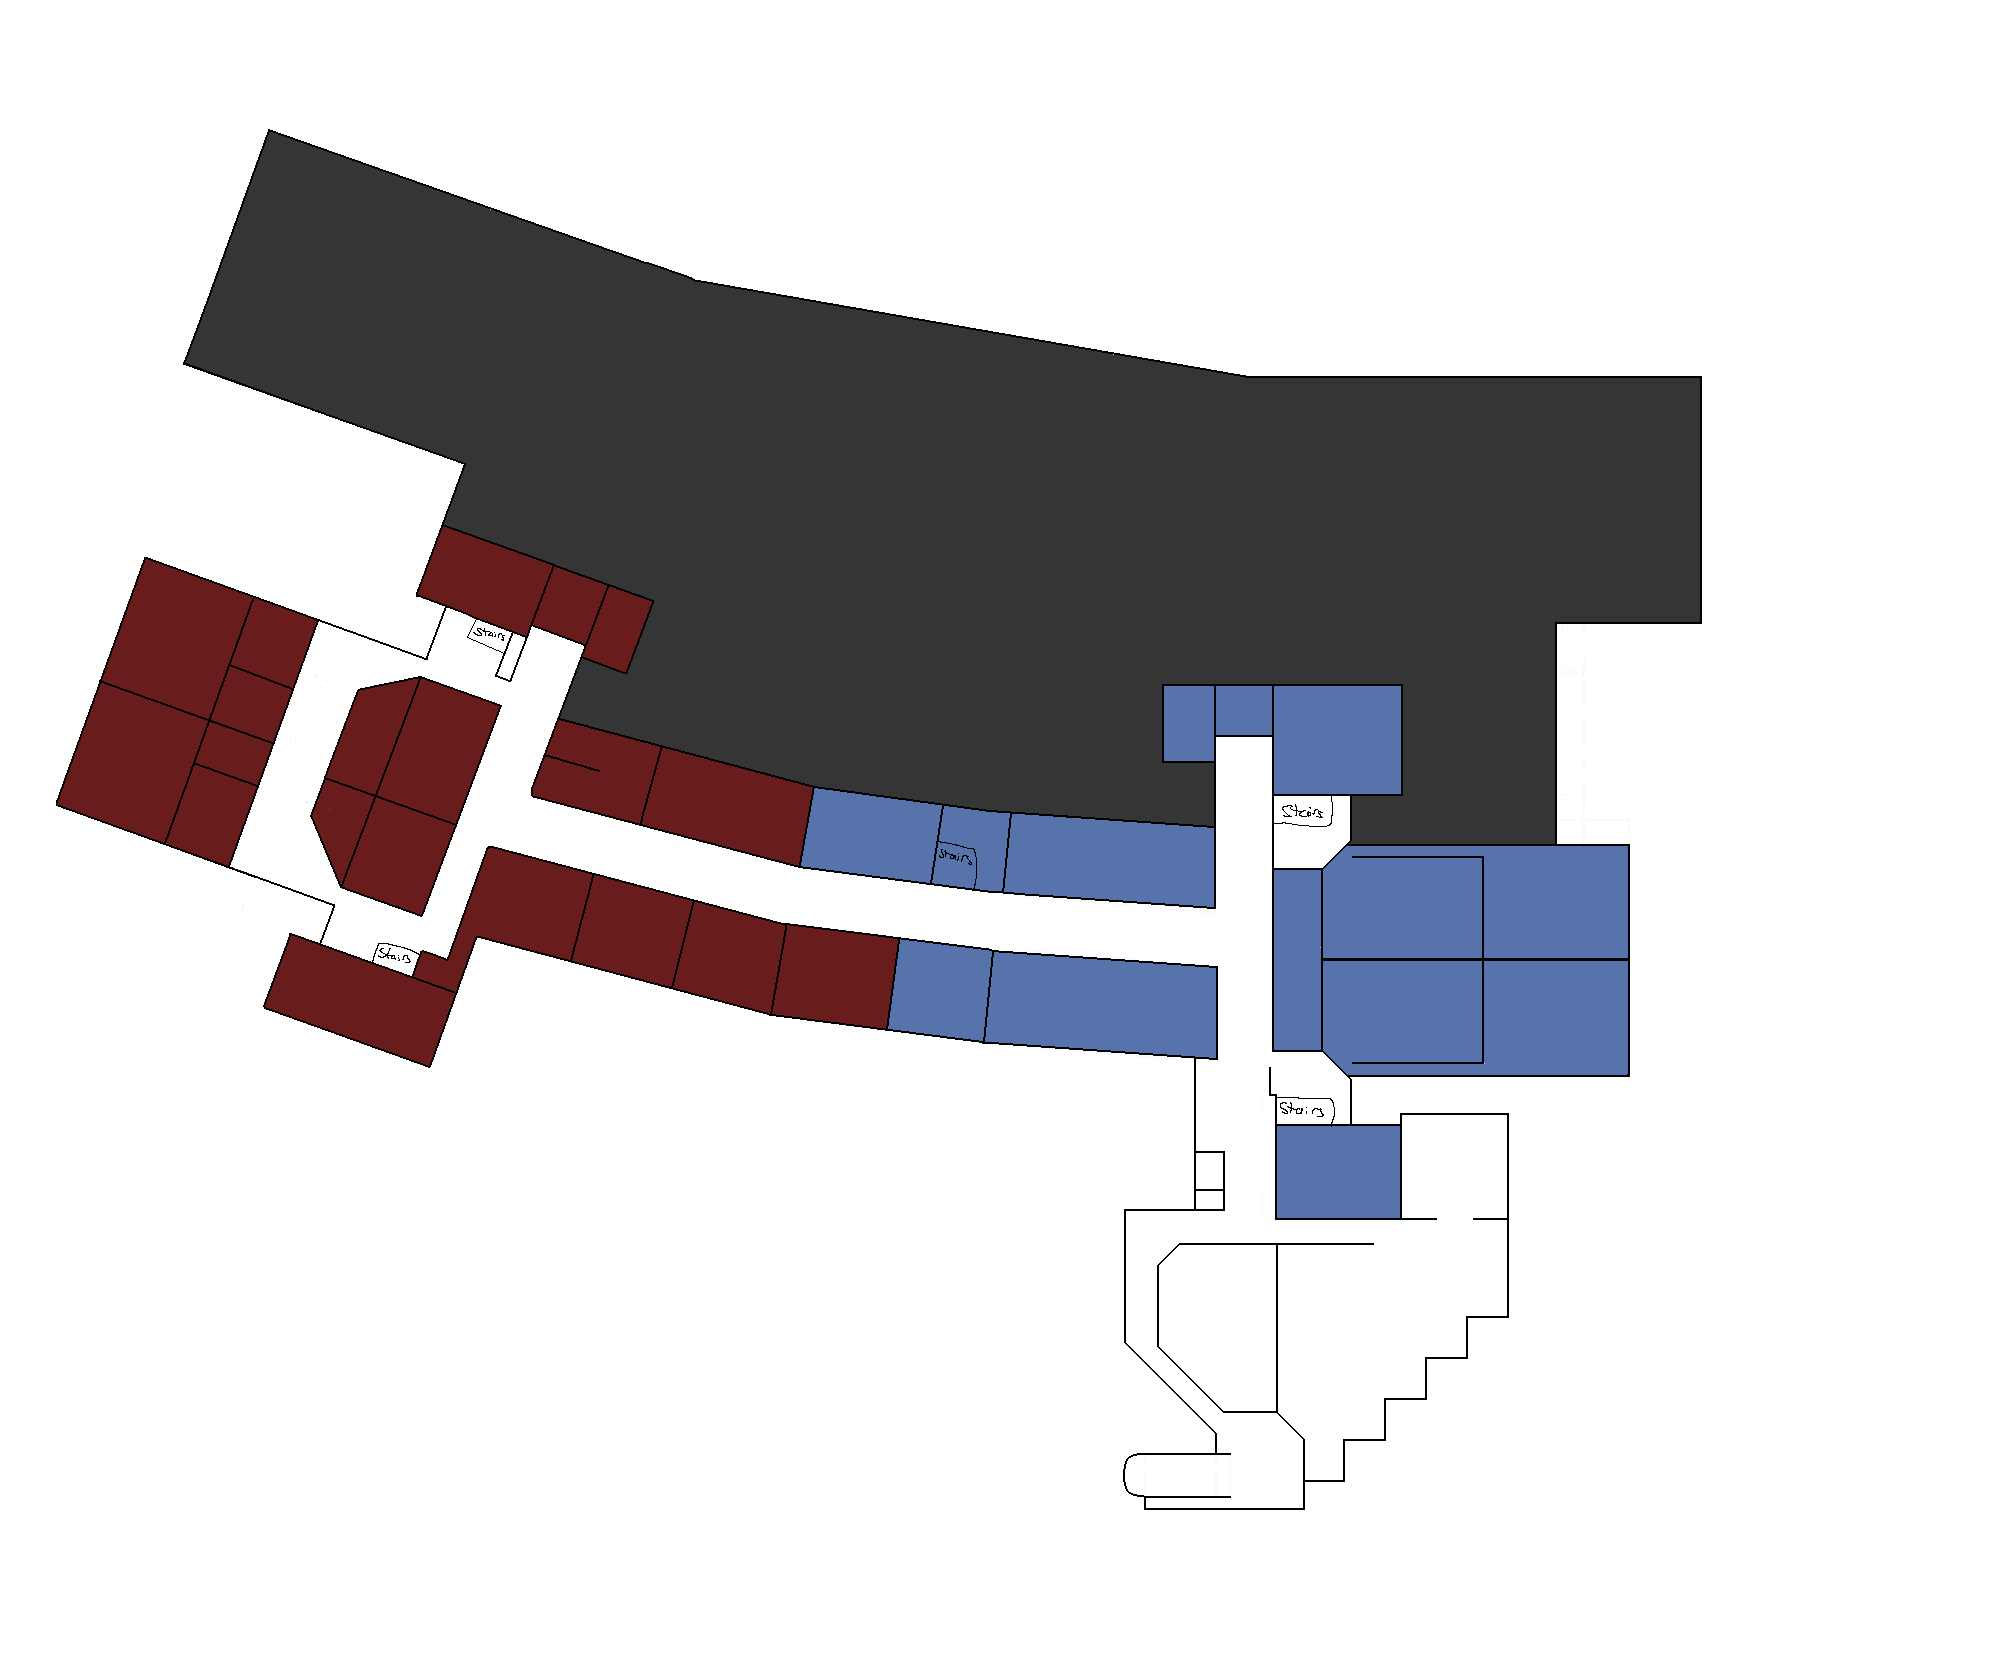
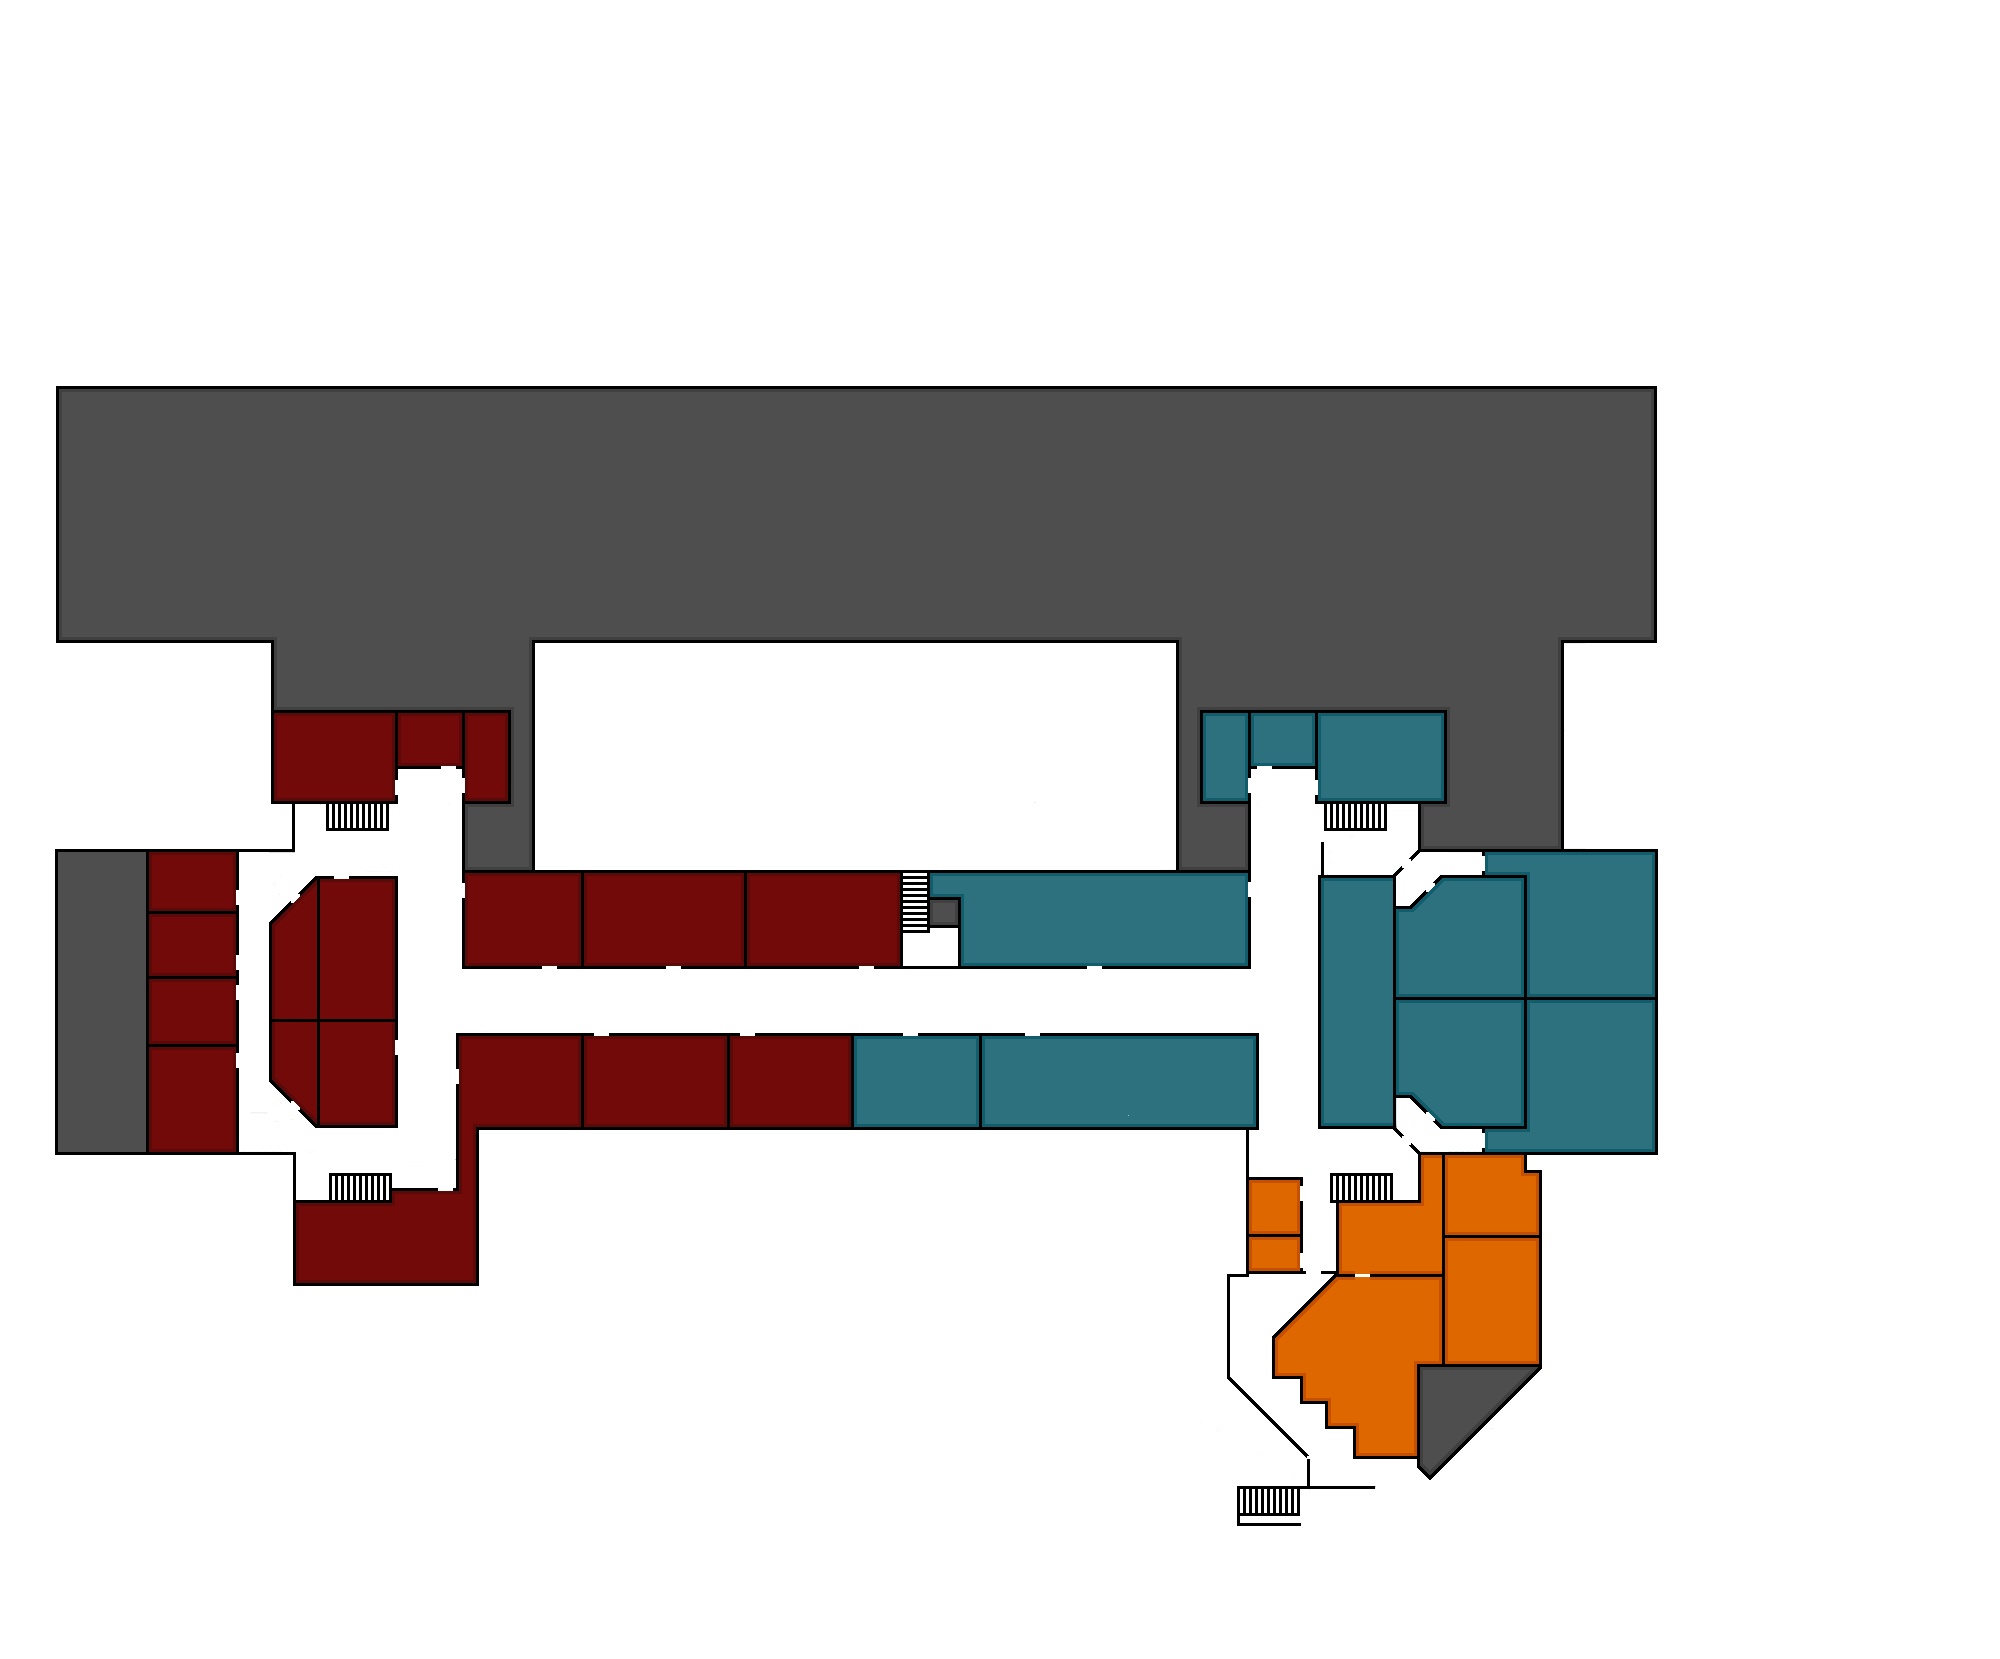
Updated floor 3

diff --git a/Backend/Node_Config/Dev/nodes.py b/Backend/Node_Config/Dev/nodes.py
@@ -27,11 +27,11 @@ n2e = CornerNode([], "2 North Extension 2nd Floor", (352, 664))
 c2e = CornerNode([], "2 Center Extension 2nd Floor", (323, 768))
 s2e = CornerNode([], "2 South Extension 2nd Floor", (280, 860))
 
-l3 = CornerNode([], "3 Left 3rd", (494, 806))
-r3 = CornerNode([], "3 Right 3rd", (1243, 939))
+l3 = CornerNode([], "3 Left 3rd", (428, 998))
+r3 = CornerNode([], "3 Right 3rd", (1284, 998))
 
-n3e = CornerNode([], "3 North Extension 3rd Floor", (341, 642))
-s3e = CornerNode([], "3 South Extension 3rd Floor", (251, 865))
+n3e = CornerNode([], "3 North Extension 3rd Floor", (257, 866))
+s3e = CornerNode([], "3 South Extension 3rd Floor", (257, 1142))
 
 l4 = CornerNode([], "4 Left 4th", (490, 811))
 r4 = CornerNode([], "4 Right 4th", (1243, 943))
@@ -69,18 +69,18 @@ the_void = CornerNode([], "The endless void of nothingness and despair. "
 
 stair1_f1 = StairNode([], "n", "1 Stair 1 1st Floor", (916, 968))
 stair1_f2 = StairNode([], "n", "2 Stair 1 2nd Floor", (907, 886))
-stair1_f3 = StairNode([], "n", "3 Stair 1 3rd Floor", (950, 886))
+stair1_f3 = StairNode([], "n", "3 Stair 1 3rd Floor", (918, 968))
 stair1_f4 = StairNode([], "n", "4 Stair 1 4th Floor", (950, 886))
 
 stair2_f1 = StairNode([], "w", "1 Stair 2 1st Floor", (394, 1171))
 stair2_f2 = StairNode([], "w", "2 Stair 2 2nd Floor", (418, 930))
-stair2_f3 = StairNode([], "w", "3 Stair 2 3rd Floor", (418, 930))
+stair2_f3 = StairNode([], "w", "3 Stair 2 3rd Floor", (396, 1143))
 stair2_f4 = StairNode([], "w", "4 Stair 2 4th Floor", (418, 930))
 stair2_f5 = StairNode([], "w", "5 Stair 2 5th Floor", (418, 930))
 
 stair3_f1 = StairNode([], "w", "1 Stair 3 1st Floor", (389, 821))
 stair3_f2 = StairNode([], "w", "2 Stair 3 2nd Floor", (527, 662))
-stair3_f3 = StairNode([], "w", "3 Stair 3 3rd Floor", (507, 694))
+stair3_f3 = StairNode([], "w", "3 Stair 3 3rd Floor", (394, 858))
 stair3_f4 = StairNode([], "w", "4 Stair 3 4th Floor", (507, 694))
 
 stair5_f1 = StairNode([], "n", "1 Stair 5 1st Floor", (407, 477))
@@ -91,13 +91,13 @@ stair6_f2 = StairNode([], "n", "2 Stair 6 2nd Floor", (1255, 449))
 
 stair8_f1 = StairNode([], "e", "1 Stair 8 1st Floor", (1324, 820))
 stair8_f2 = StairNode([], "e", "2 Stair 8 2nd Floor", (1272, 848))
-stair8_f3 = StairNode([], "e", "3 Stair 8 3rd Floor", (1273, 848))
+stair8_f3 = StairNode([], "e", "3 Stair 8 3rd Floor", (1324, 820))
 stair8_f4 = StairNode([], "e", "4 Stair 8 4th Floor", (1273, 848))
 
 stair9_f1 = StairNode([], "e", "1 Stair 9 1st Floor", (1324, 1186))
 stair9_f2 = StairNode([], "e", "2 Stair 9 2nd Floor", (1272, 1058))
 stair9_f3 = StairNode([], "e", "3 Stair 9 3rd Floor", (1272, 1058))
-stair9_f4 = StairNode([], "e", "4 Stair 9 4th Floor", (1272, 1058))
+stair9_f4 = StairNode([], "e", "4 Stair 9 4th Floor", (1317, 1154))
 stair9_f5 = StairNode([], "e", "5 Stair 9 5th Floor", (1272, 1058))
 
 stair11_f0 = StairNode([], "e", "Stair 11 Basement")
@@ -198,27 +198,27 @@ room_2132 = DoorNode([], 0, the_void, "w", (243, 864))
 room_2133 = DoorNode([], 0, the_void, "s", (170, 723))
 room_2134 = DoorNode([], 0, the_void, "n", (185, 699))
 
-room_3124 = DoorNode([], 0, the_void, "e", (555, 727))
-room_3111 = DoorNode([], 0, the_void, "s", (435, 954))
-room_3103 = DoorNode([], 0, the_void, "n", (659, 830))
-room_3104 = DoorNode([], 0, the_void, "s", (601, 875))
-room_3101 = DoorNode([], 0, the_void, "n", (864, 876))
-room_3102 = DoorNode([], 0, the_void, "s", (699, 902))
-room_3401 = DoorNode([], 0, the_void, "s", (944, 944))
-room_3404 = DoorNode([], 0, the_void, "n", (1098, 900))
-room_3402 = DoorNode([], 0, the_void, "s", (1027, 953))
+room_3124 = DoorNode([], 0, the_void, "e", (463, 890))
+room_3111 = DoorNode([], 0, the_void, "s", (445, 1189))
+room_3103 = DoorNode([], 0, the_void, "n", (673, 967))
+room_3104 = DoorNode([], 0, the_void, "s", (600, 1034))
+room_3101 = DoorNode([], 0, the_void, "n", (866, 967))
+room_3102 = DoorNode([], 0, the_void, "s", (747, 1034))
+room_3401 = DoorNode([], 0, the_void, "s", (911, 1034))
+room_3404 = DoorNode([], 0, the_void, "n", (1094, 967))
+room_3402 = DoorNode([], 0, the_void, "s", (1032, 1034))
 
-room_3411 = DoorNode([], 0, the_void, "s", (1337, 866))
-room_3412 = DoorNode([], 0, the_void, "e", (1409, 850))
-room_3409 = DoorNode([], 0, the_void, "n", (1340, 1054))
-room_3408 = DoorNode([], 0, the_void, "e", (1409, 1068))
+room_3411 = DoorNode([], 0, the_void, "s", (1430, 886))
+room_3412 = DoorNode([], 0, the_void, "e", (1438, 863))
+room_3409 = DoorNode([], 0, the_void, "n", (1430, 1116))
+room_3408 = DoorNode([], 0, the_void, "e", (1438, 1140))
 
-room_3121 = DoorNode([], 0, the_void, "w", (295, 684))
-room_3120 = DoorNode([], 0, the_void, "w", (276, 736))
-room_3119 = DoorNode([], 0, the_void, "w", (272, 750))
-room_3118 = DoorNode([], 0, the_void, "w", (256, 793))
-room_3117 = DoorNode([], 0, the_void, "n", (334, 869))
-room_3122 = DoorNode([], 0, the_void, "s", (406, 680))
+room_3121 = DoorNode([], 0, the_void, "w", (237, 898))
+room_3120 = DoorNode([], 0, the_void, "w", (237, 961))
+room_3119 = DoorNode([], 0, the_void, "w", (237, 991))
+room_3118 = DoorNode([], 0, the_void, "w", (237, 1061))
+room_3117 = DoorNode([], 0, the_void, "n", (295, 1105))
+room_3122 = DoorNode([], 0, the_void, "s", (295, 898))
 
 room_4111 = DoorNode([], 0, the_void, "s", (438, 955))
 room_4117 = DoorNode([], 0, the_void, "w", (433, 886))
